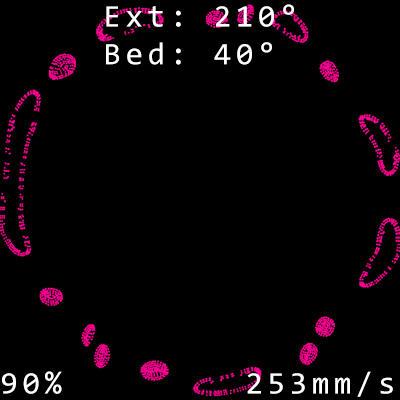
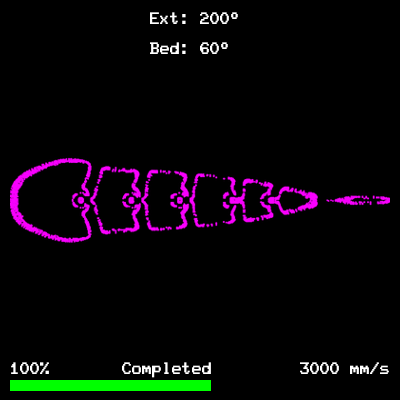
tomorrow v1.0?

diff --git a/main.py b/main.py
@@ -5,7 +5,13 @@ import os
 import asyncio
 from PIL import Image, ImageDraw, ImageFont
 
-font_path = "C:/Windows/Fonts/Arial.ttf"  # Adjust the font path as needed for Windows
+# G L I V E
+# This is the optional main file to the Gcodie project
+# Program outputs the current layer of the print job with information on the same image
+# Has the basic logic to detect calibration and print job completion
+# gcodie is my library for interacting with Moonraker API and generating the images
+
+font_path = r"./rainbow100.ttf"  # Adjust the font path as needed for Windows
 # Start of main.py
 
 async def get_layer(printer_ip, port, image_size, bg_color, layer_color, debug):
@@ -15,7 +21,7 @@ async def get_layer(printer_ip, port, image_size, bg_color, layer_color, debug):
     output_dir = "glive"
 
     if debug == True:
-        current_layer = 40
+        current_layer = 39
     else:
         current_layer, _ = gc.get_moonraker_layer(printer_ip, port)
         if current_layer == None:
@@ -58,37 +64,46 @@ async def get_layer(printer_ip, port, image_size, bg_color, layer_color, debug):
             gcode_path = gc.get_current_file(printer_ip, port)
         except Exception as e:
             gc.stats(gc.colored(f"No print job found: {e}"), "red")
-            return
 
     x, y, z = gc.parse_gcode(gcode_path)
 
     try:
+        gc.stats(f"Generating image for layer {current_layer}")
         path = gc.generate_layer_img(current_layer, x, y, z, output_dir, bg_color, layer_color, image_size)
-    except Exception as e:
-        while True:
-            gc.stats(f"No points found for layer {current_layer}.")
-            gc.stats("Getting the next layer.")
-            try:
+
+        if path is None:
+            while True:
+
                 current_layer += 1
-                path = gc.generate_layer_img(current_layer, x, y, z, output_dir, bg_color, layer_color, image_size)
-                break
-            except Exception as e:
-                gc.stats(f"Error: {e}")
-                return
+
+                with open(os.path.join(output_dir, "current_layer.txt"), "w") as f:
+                    f.write(str(current_layer))
+                    f.close()
+                try:
+                    path = gc.generate_layer_img(current_layer, x, y, z, output_dir, bg_color, layer_color, image_size)
+                    break
+
+                except Exception as e:
+                    gc.stats(f"Error: {e}")
+
+    except Exception as e:
+        gc.stats(f"Error: {e}")
+        return
+            
     return path
 
 async def get_current_stats(printer_ip, port, path, debug):
     # Write the temps, powers, and speed to the image
 
-    gc.stats("Updating the image with stats")
+    gc.stats("Updating the image with stats:")
 
     output_dir = "glive"
 
     if debug == True:
-        progress = 0.5
+        progress = 100
         extruder_temps = 200; heater_bed_temps = 60
         extruder_power = 0.5; heater_bed_power = 0.5
-        current_speed = 50
+        current_speed = 3000
     else:
         try:
             progress = gc.get_moonraker_progress(printer_ip, port)
@@ -96,24 +111,47 @@ async def get_current_stats(printer_ip, port, path, debug):
             extruder_power, heater_bed_power = gc.get_current_powers(printer_ip, port)
             current_speed = gc.get_current_speed(printer_ip, port)
 
-            # convert the speed to cm/s if value is > 4 digits
-            
-
         except Exception as e:
             gc.stats(f"Error: {e}")
             return
 
     if path:
-        with Image.open(path) as cl:
+        with Image.open(path) as im:
+            # Scale the image to fit the stats
+            im = im.resize((380, 380))
+
+            cl = cl.canvas = Image.new("RGB", (400, 400))
+            cl.paste(im, (10, 10))
+
             draw = ImageDraw.Draw(cl)
             font = ImageFont.truetype(font_path, 20)
 
             if progress != type(int):
                 progress = int(progress)
 
-            # Adjust the speed to fit within the image
+            gc.stats(gc.colored(f"Extruder: {extruder_temps}°C | Bed: {heater_bed_temps}°C", "cyan"))
+            gc.stats(gc.colored(f"E-Power: {extruder_power} | B-Power: {heater_bed_power}", "cyan"))
+            gc.stats(gc.colored(f"Progress: {progress}% | Speed: {current_speed}", "cyan"))
+
+            #output stats as json to {output_dir}/stats.json
+
+            stats = {
+                "Extruder": extruder_temps,
+                "Bed": heater_bed_temps,
+                "Extruder Power": extruder_power,
+                "Bed Power": heater_bed_power,
+                "Progress": progress,
+                "Speed": current_speed
+            }
+
+            with open(os.path.join(output_dir, "stats.json"), "w") as f:
+                gc.stats("Writing stats to stats.json")
+                f.write(gc.json.dumps(stats))
+                f.close()
+
+            # convert the speed to cm/s if value is > 4 digits
             if current_speed > 9999:
-                current_speed = f"{current_speed / 10:.1f} cm/s"
+                current_speed = f"{current_speed / 1000:.1f} m/s"
             else:
                 current_speed = f"{current_speed} mm/s"
 
@@ -126,15 +164,30 @@ async def get_current_stats(printer_ip, port, path, debug):
 
             # Positions for the text elements
             positions = [(150, 10), (150, 40), (10, 360), (300, 360)]
+            done_position = (122, 360)
 
             for i, line in enumerate(text):
-                draw.text(positions[i], line, fill="#FF00FF", font=font)
+                draw.text(positions[i], line, fill="#ffffff", font=font)
+
+            # detect if the print job is completed
+
+            if progress < 100:
+                color = "#ffffff"
+            else:
+                draw.text(done_position, "Completed", fill="#ffffff", font=font)
+                color = "#00ff00"
+
+            # add progress bar 20 steps between progress and speed
+            draw.rectangle([10, 380, 310, 390], fill="#000000")
+            draw.rectangle([10, 380, 200, 390], outline="#ffffff")
+            draw.rectangle([10, 380, 10 + (progress * 2), 390], fill=color)
+
 
             output_image_path = os.path.join(output_dir, f"out.png")
 
             cl.save(output_image_path)
 
-            gc.stats("Updating done")
+            gc.stats(gc.colored("Done", "green"))
 
             return output_image_path
     else:

diff --git a/gcodie/images.py b/gcodie/images.py
@@ -42,7 +42,7 @@ def generate_layer_img(layer, x, y, z, output_dir, bg_color, layer_color, image_
 
             else:
                 plt.close(fig)
-                stats(f"No points found for layer {layer}.")
+                stats(colored(f"No points found for layer {layer}.", "yellow"))
                 return
 
             # Calculate limits to center the visualization

diff --git a/gcodie/ginfo.py b/gcodie/ginfo.py
@@ -8,7 +8,7 @@ def last_layer(gcode_path):
     x, y, z = parse_gcode_silent(gcode_path)
     last_layer =  int(np.max(z) / 0.2) + 1
 
-    last_layer = last_layer - 1 # usually last layer is nothing
+    last_layer = last_layer - 1 # usually if not everytime last layer is nothing
 
     stats(f"Last layer is {last_layer}")
 

diff --git a/gui.py b/gui.py
@@ -1,0 +1,1 @@
+print("nothing here yet")

diff --git a/README.md b/README.md
@@ -1,17 +1,23 @@
 # Gcodie
 
 ##### Future 3D print monitoring program. Note that this description is definitely not final :) Just to get the idea
----
-## Idea 😎
-A tool to monitor the current printed layer on a 3D printer, track the percentage progress, and more! 🖨✨
-My original plan was to run the program on Arduino, but then I came to the conclusion that it isn't possible anymore. However, it brings more future functions.
-I will also design a case for the Raspberry Pi and display for this.
 
-In the future, there will also be an option to show temperatures and speeds like this ⬇
+hah went to bed... half written
+---
+## Current idea  😎
+Python library and program that uses moonraker API to show stats about the print and proccess image of the current layer! (ofc also json) 🖨✨
+Currently you can **try it by using the main.py or dig into the library your self**.
+Future of this will be a neat desktop display that gives you stats and control right within a reach.
+
+This is the current output of the main.py program, not photoshop anymore!
 
 ![example](docs/example.png)
 
-Please note, this is just Photoshopped in 2 minutes. It will be way better 💦
+
+# ITS LATE SEE YA TOMORROW
+
+
+
 
 ## Features 🌟
 - Visualization of the current layer being printed 🖼
